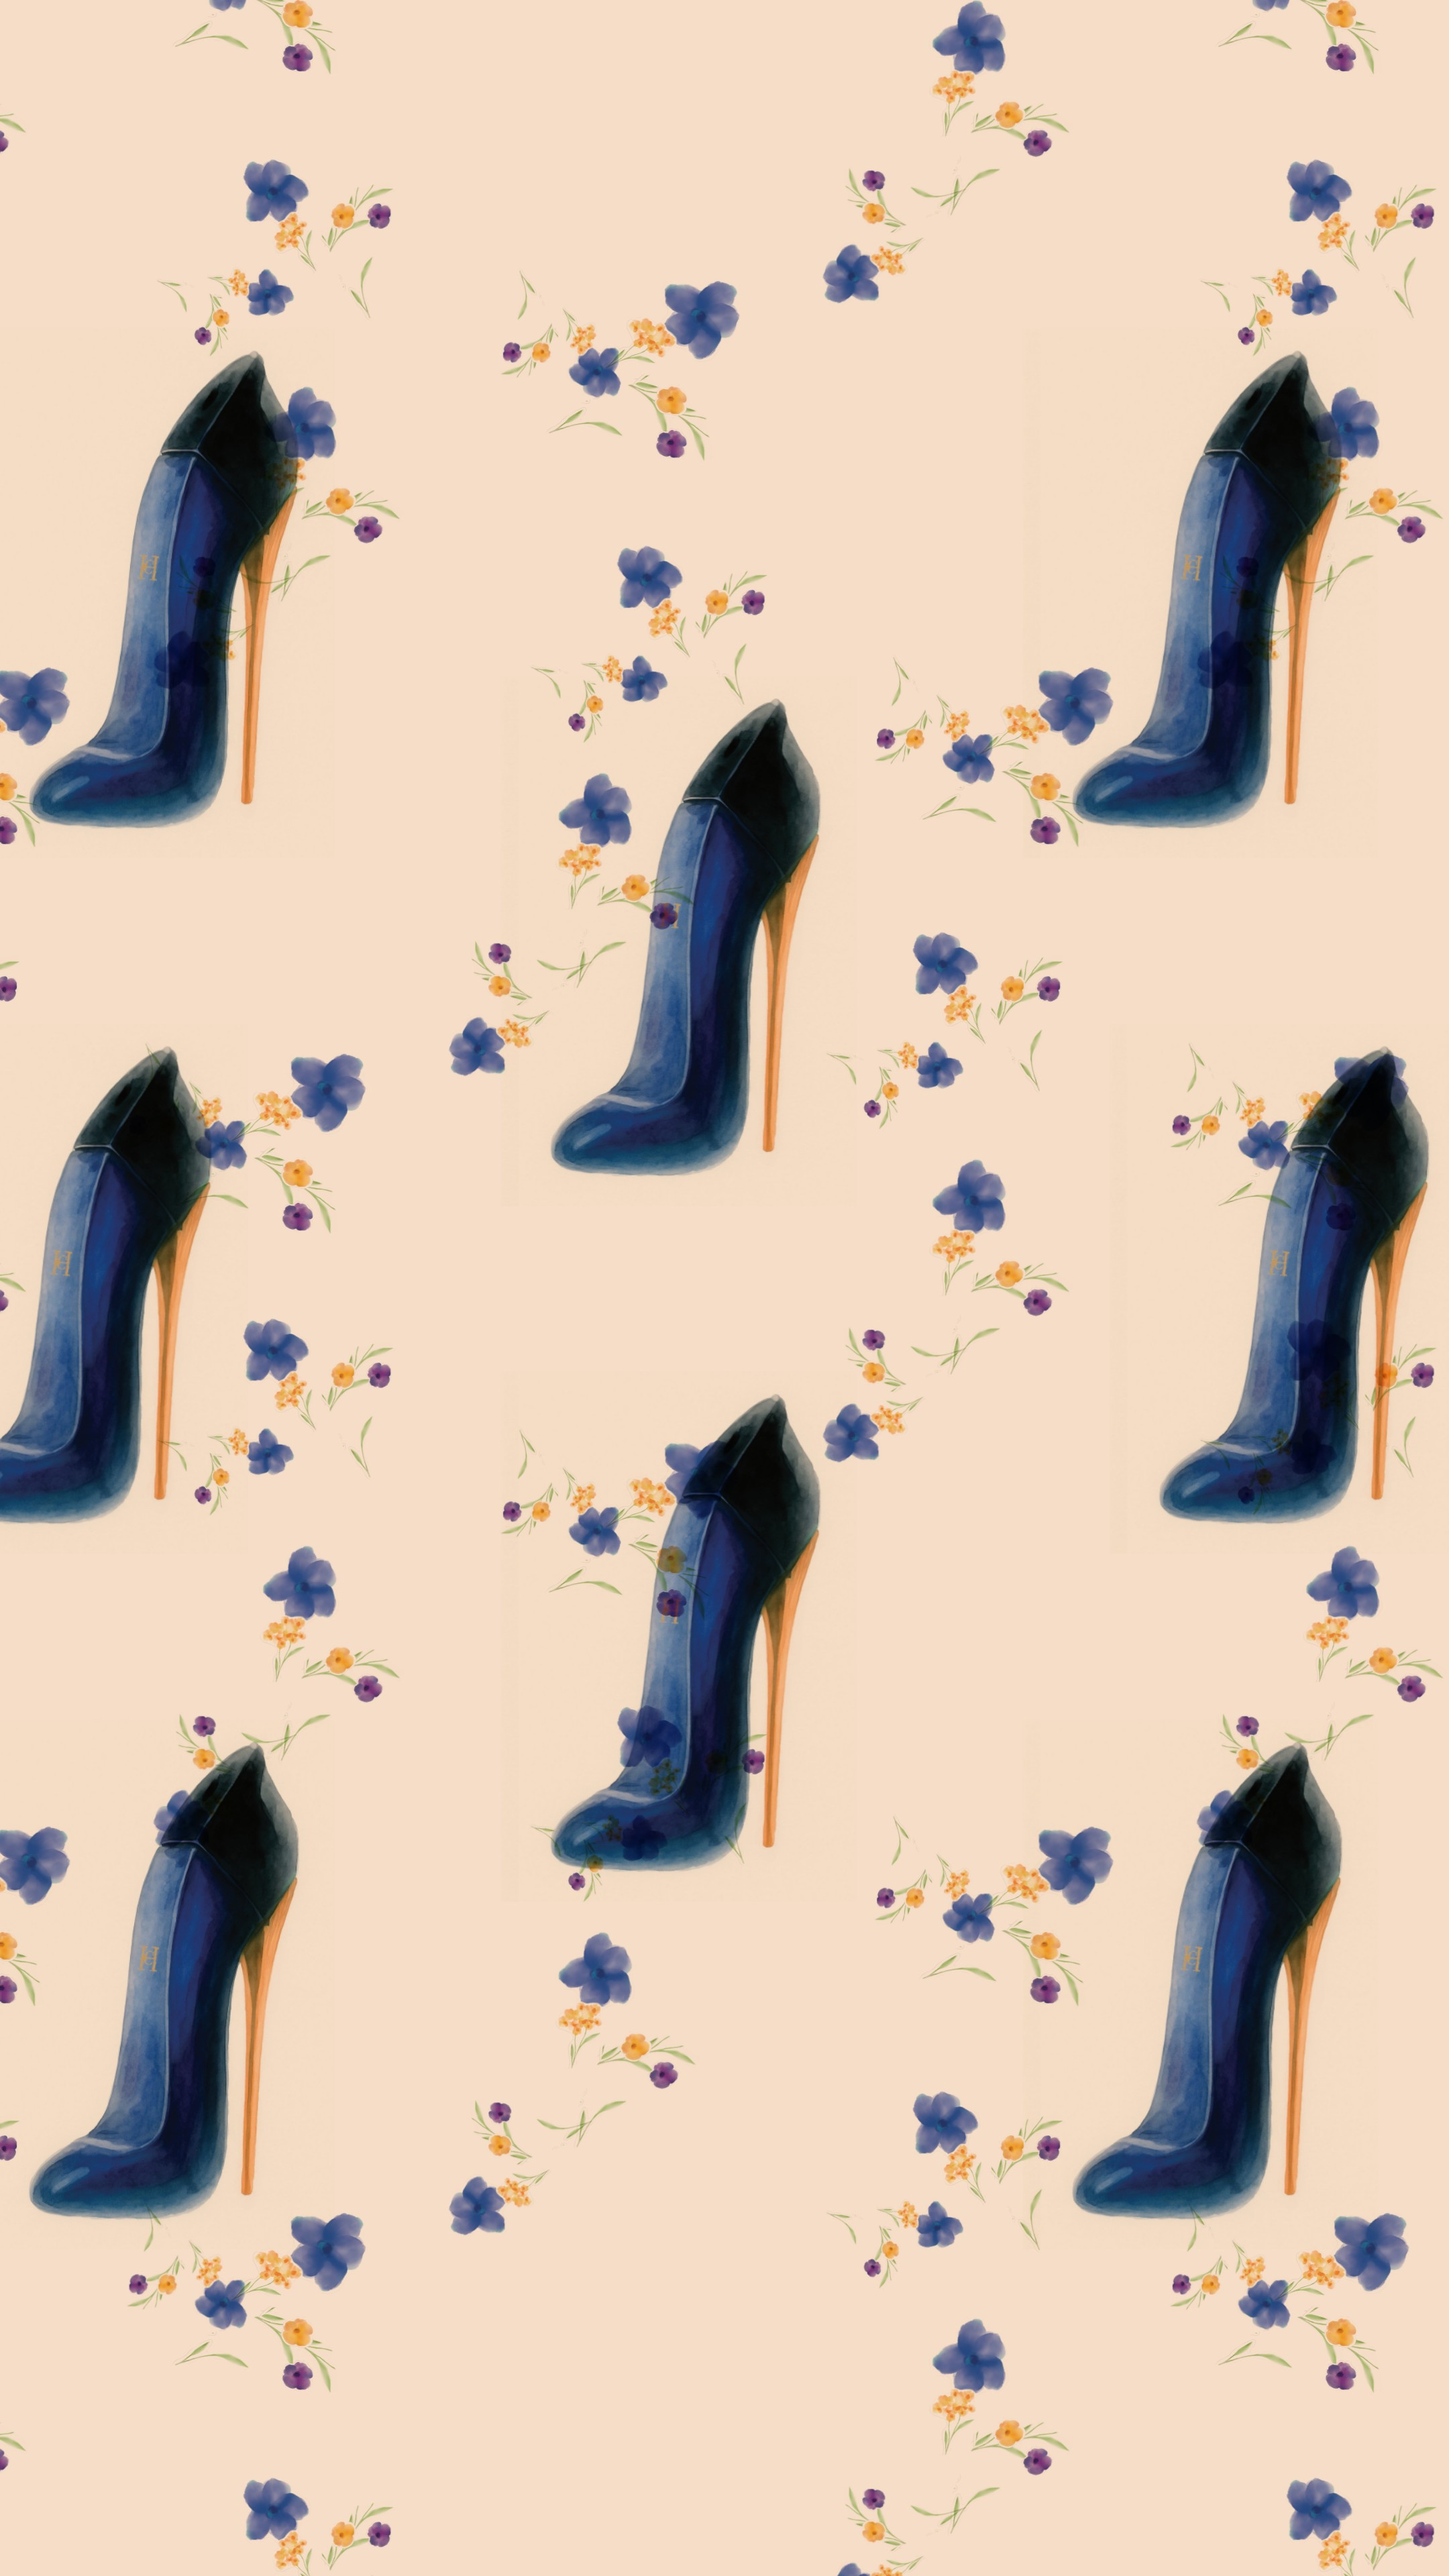
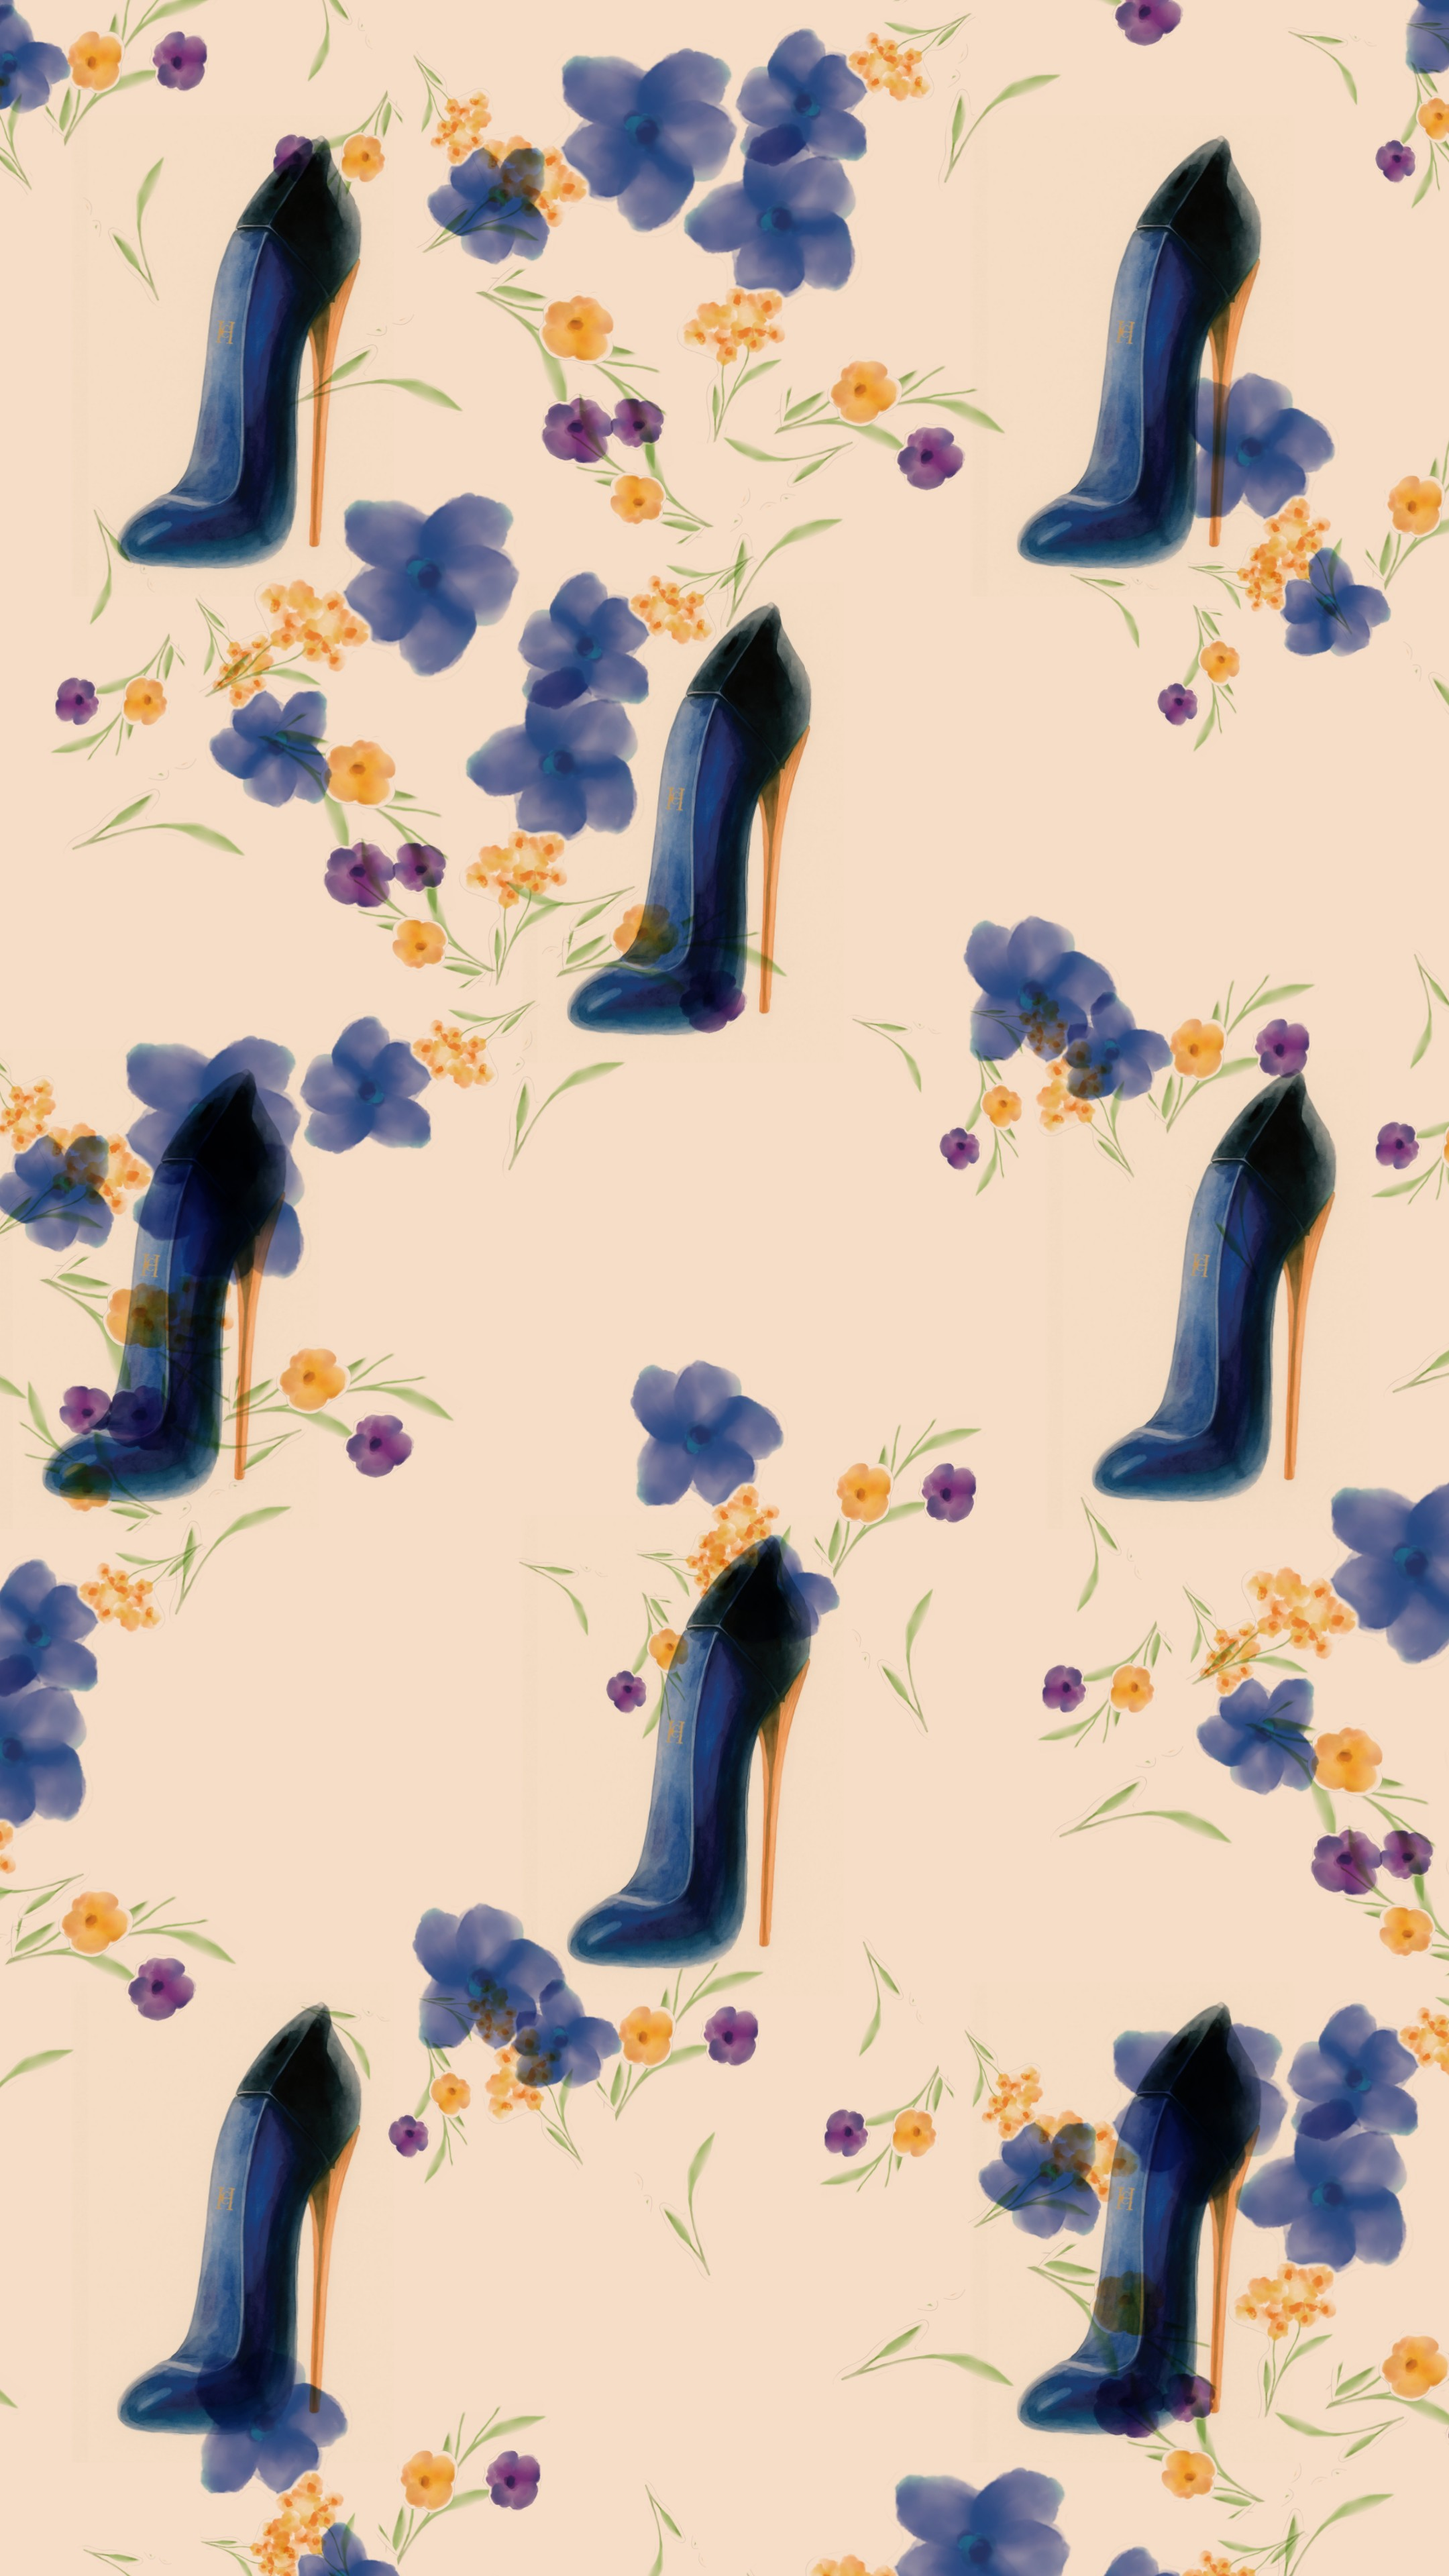
Update default configuration values for control panel and server settings

diff --git a/control.html b/control.html
@@ -233,18 +233,18 @@
                 </div>
 
                 <div class="control-group">
-                    <label for="repetitionX">Repeticiones Horizontales: <span class="range-display" id="repetitionXValue">10</span></label>
-                    <input type="range" id="repetitionX" min="1" max="30" value="10" step="1">
+                    <label for="repetitionX">Repeticiones Horizontales: <span class="range-display" id="repetitionXValue">13</span></label>
+                    <input type="range" id="repetitionX" min="1" max="30" value="13" step="1">
                 </div>
 
                 <div class="control-group">
-                    <label for="repetitionY">Repeticiones Verticales: <span class="range-display" id="repetitionYValue">8</span></label>
-                    <input type="range" id="repetitionY" min="1" max="30" value="8" step="1">
+                    <label for="repetitionY">Repeticiones Verticales: <span class="range-display" id="repetitionYValue">12</span></label>
+                    <input type="range" id="repetitionY" min="1" max="30" value="12" step="1">
                 </div>
 
                 <div class="control-group">
-                    <label for="patternSize">Tamaño del Patrón: <span class="range-display" id="sizeValue">245px</span></label>
-                    <input type="range" id="patternSize" min="20" max="300" value="245" step="5">
+                    <label for="patternSize">Tamaño del Patrón: <span class="range-display" id="sizeValue">300px</span></label>
+                    <input type="range" id="patternSize" min="20" max="300" value="300" step="5">
                 </div>
 
                 
@@ -255,8 +255,8 @@
                 </div>
 
                 <div class="control-group">
-                    <label for="zoom">Zoom: <span class="range-display" id="zoomValue">120%</span></label>
-                    <input type="range" id="zoom" min="0.1" max="3.0" value="1.2" step="0.1">
+                    <label for="zoom">Zoom: <span class="range-display" id="zoomValue">230%</span></label>
+                    <input type="range" id="zoom" min="0.1" max="3.0" value="2.3" step="0.1">
                 </div>
 
                 <!-- blendMode control removed; default kept on server as 'multiply' -->
@@ -268,18 +268,18 @@
                 </div>
 
                 <div class="control-group">
-                    <label for="perfumeSpacingH">Perfume - Separación H: <span class="range-display" id="perfumeSpacingHValue">1.00×</span></label>
-                    <input type="range" id="perfumeSpacingH" min="0.4" max="1.6" value="1.0" step="0.05">
+                    <label for="perfumeSpacingH">Perfume - Separación H: <span class="range-display" id="perfumeSpacingHValue">0.45×</span></label>
+                    <input type="range" id="perfumeSpacingH" min="0.4" max="1.6" value="0.45" step="0.05">
                 </div>
 
                 <div class="control-group">
-                    <label for="perfumeSpacingV">Perfume - Separación V: <span class="range-display" id="perfumeSpacingVValue">1.00×</span></label>
-                    <input type="range" id="perfumeSpacingV" min="0.4" max="1.6" value="1.0" step="0.05">
+                    <label for="perfumeSpacingV">Perfume - Separación V: <span class="range-display" id="perfumeSpacingVValue">0.70×</span></label>
+                    <input type="range" id="perfumeSpacingV" min="0.4" max="1.6" value="0.70" step="0.05">
                 </div>
 
                 <div class="control-group">
-                    <label for="perfumeSizeFactor">Perfume - Tamaño: <span class="range-display" id="perfumeSizeFactorValue">100%</span></label>
-                    <input type="range" id="perfumeSizeFactor" min="0.5" max="1.8" value="1.0" step="0.05">
+                    <label for="perfumeSizeFactor">Perfume - Tamaño: <span class="range-display" id="perfumeSizeFactorValue">85%</span></label>
+                    <input type="range" id="perfumeSizeFactor" min="0.5" max="1.8" value="0.85" step="0.05">
                 </div>
 
                 
@@ -494,14 +494,14 @@
         // Cargar configuración general
         function loadGeneralConfig(config) {
             elements.patternType.value = config.patternType || 'organic-complex';
-            elements.repetitionX.value = config.repetitionX || 10;
-            elements.repetitionY.value = config.repetitionY || 8;
-            elements.patternSize.value = config.patternSize || 245;
+            elements.repetitionX.value = config.repetitionX || 13;
+            elements.repetitionY.value = config.repetitionY || 12;
+            elements.patternSize.value = config.patternSize || 300;
             elements.rotation.value = config.rotation || 0;
-            elements.zoom.value = config.zoom || 1.2;
-            elements.perfumeSpacingH.value = config.perfumeSpacingH || 1.0;
-            elements.perfumeSpacingV.value = config.perfumeSpacingV || 1.0;
-            elements.perfumeSizeFactor.value = config.perfumeSizeFactor || 1.0;
+            elements.zoom.value = config.zoom || 2.3;
+            elements.perfumeSpacingH.value = config.perfumeSpacingH || 0.45;
+            elements.perfumeSpacingV.value = config.perfumeSpacingV || 0.7;
+            elements.perfumeSizeFactor.value = config.perfumeSizeFactor || 0.85;
             // blendMode removed; server default multiply applies
             elements.backgroundColor.value = config.backgroundColor || '#F5DDC7';
             // update RGB display
@@ -655,7 +655,7 @@
         generateScreenControls();
         generateURLs();
         setupGeneralControls();
-        updateUI();
+    updateUI();
     </script>
 </body>
 </html>

diff --git a/server.js b/server.js
@@ -25,12 +25,15 @@ let globalState = {
     // Configuración general (aplicada a todas las pantallas)
     general: {
     patternType: 'organic-complex',
-        repetitionX: 10,
-        repetitionY: 8,
-        patternSize: 245,
-        rotation: 0,
-        zoom: 1.2,
+    repetitionX: 13,
+    repetitionY: 12,
+    patternSize: 300,
+    rotation: 0,
+        zoom: 2.3,
         blendMode: 'multiply',
+        perfumeSpacingH: 0.45,
+        perfumeSpacingV: 0.7,
+        perfumeSizeFactor: 0.85,
     backgroundColor: '#F5DDC7'
     },
     // Configuración específica de cada pantalla (solo offset horizontal)

diff --git a/README.md b/README.md
@@ -156,3 +156,18 @@ El servidor muestra logs de conexiones y desconexiones en la consola.
 - La animación es orgánica y empieza desde la pantalla 1
 - Solo el offset horizontal es configurable por pantalla
 - Todos los demás parámetros son globales y sincronizados
+
+## Valores por defecto (configuración inicial)
+
+Al iniciar sin estado previo, el sistema utiliza estos valores por defecto en el panel de control y en el servidor:
+
+- Tipo de Patrón: Orgánico Complejo
+- Repeticiones Horizontales: 13
+- Repeticiones Verticales: 12
+- Tamaño del Patrón: 300px
+- Rotación: 0°
+- Zoom: 230%
+- Color de Fondo: RGB 245, 221, 199 (#F5DDC7)
+- Perfume - Separación H: 0.45×
+- Perfume - Separación V: 0.70×
+- Perfume - Tamaño: 85%
